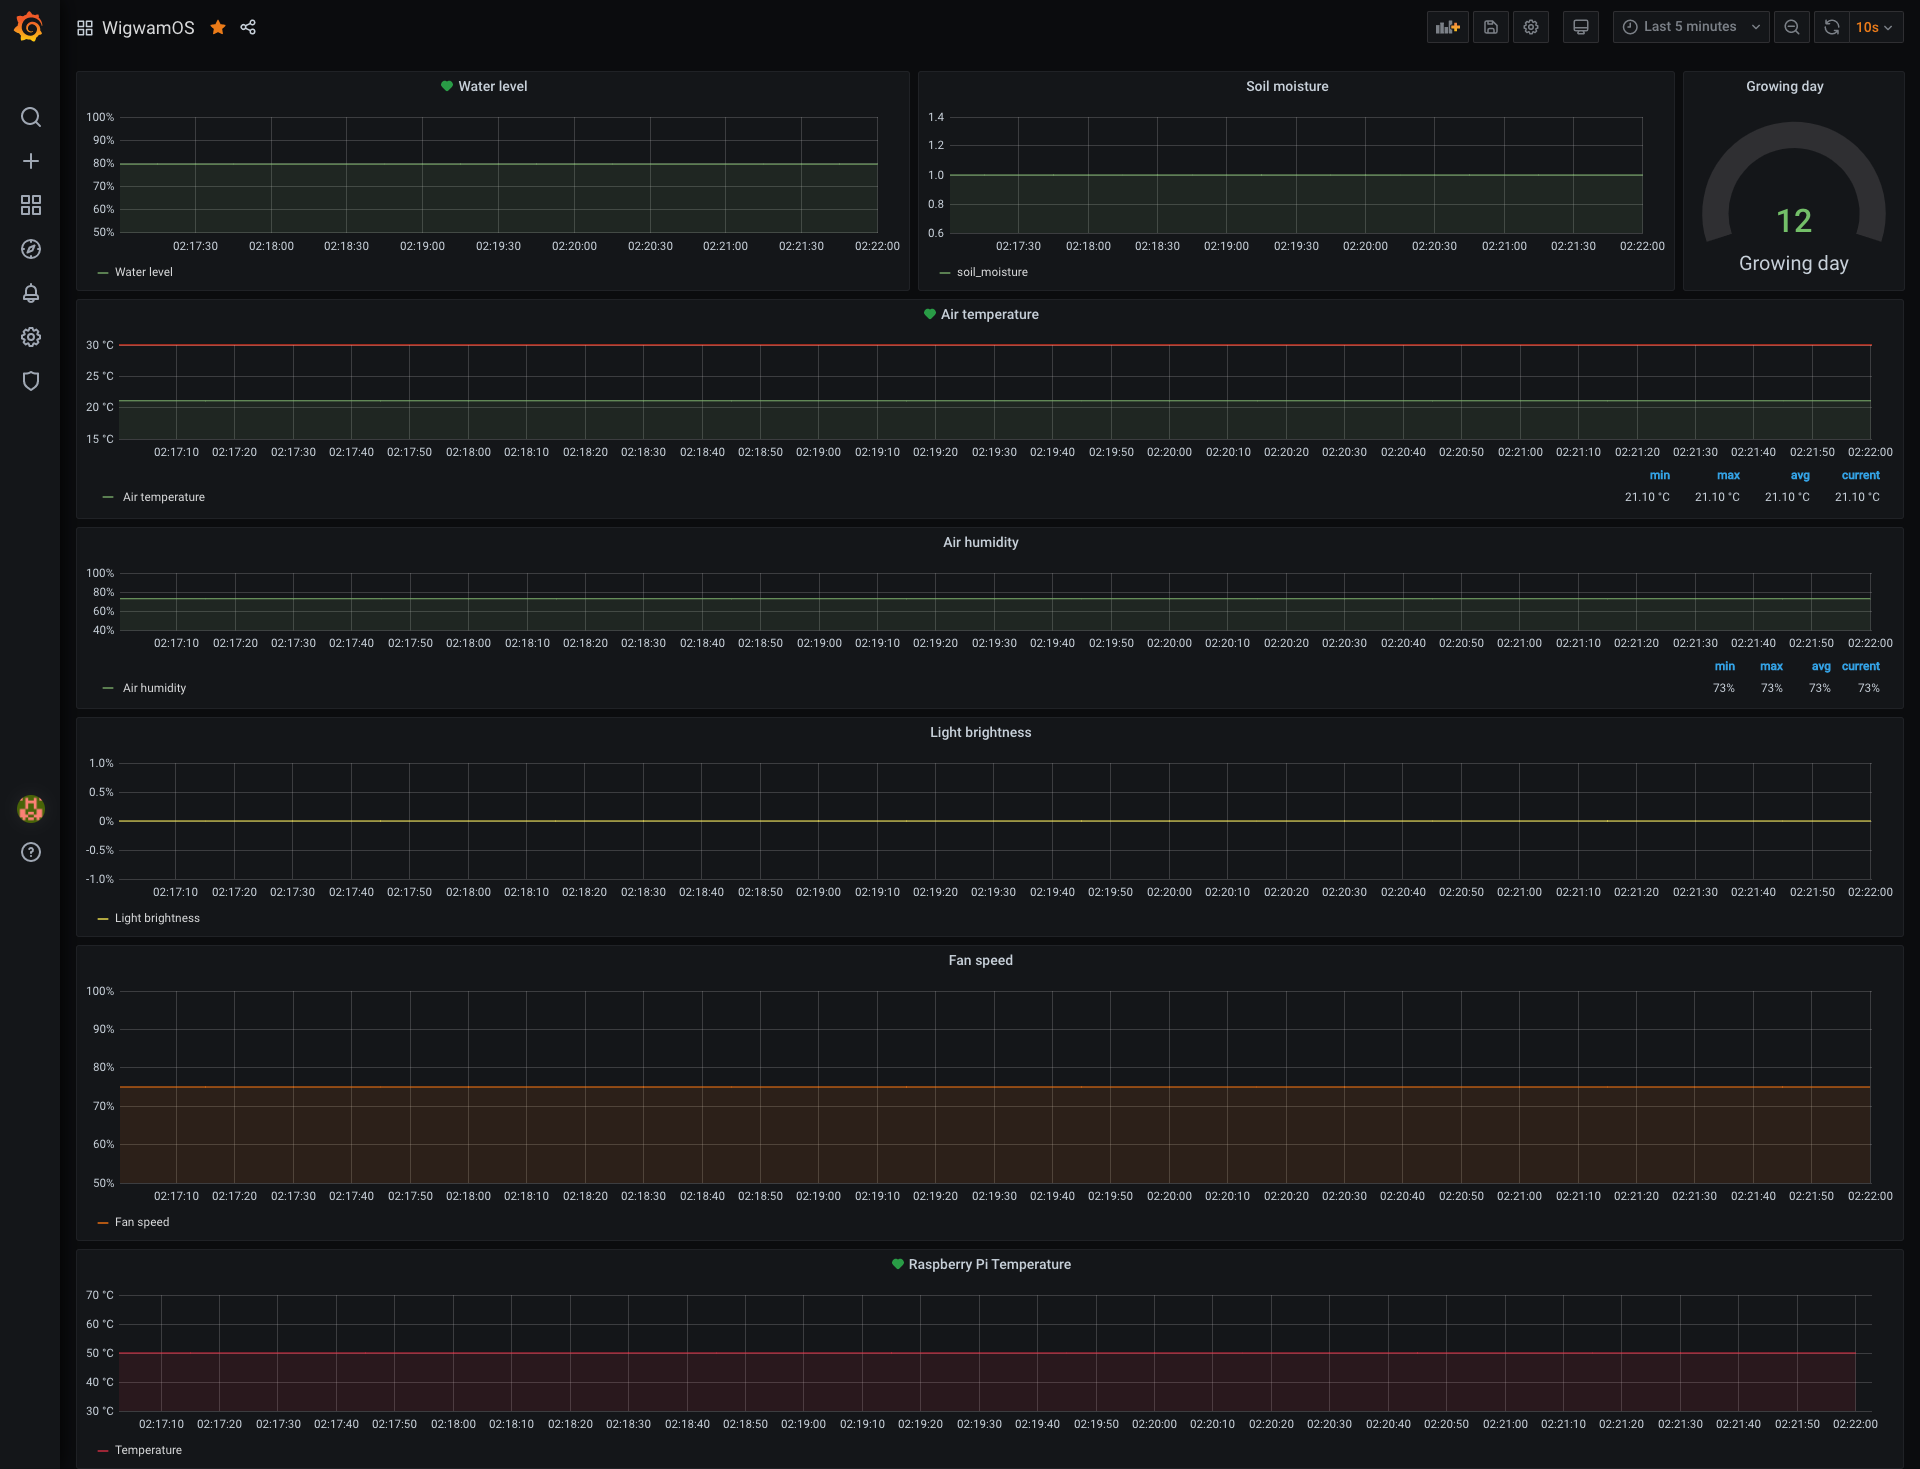
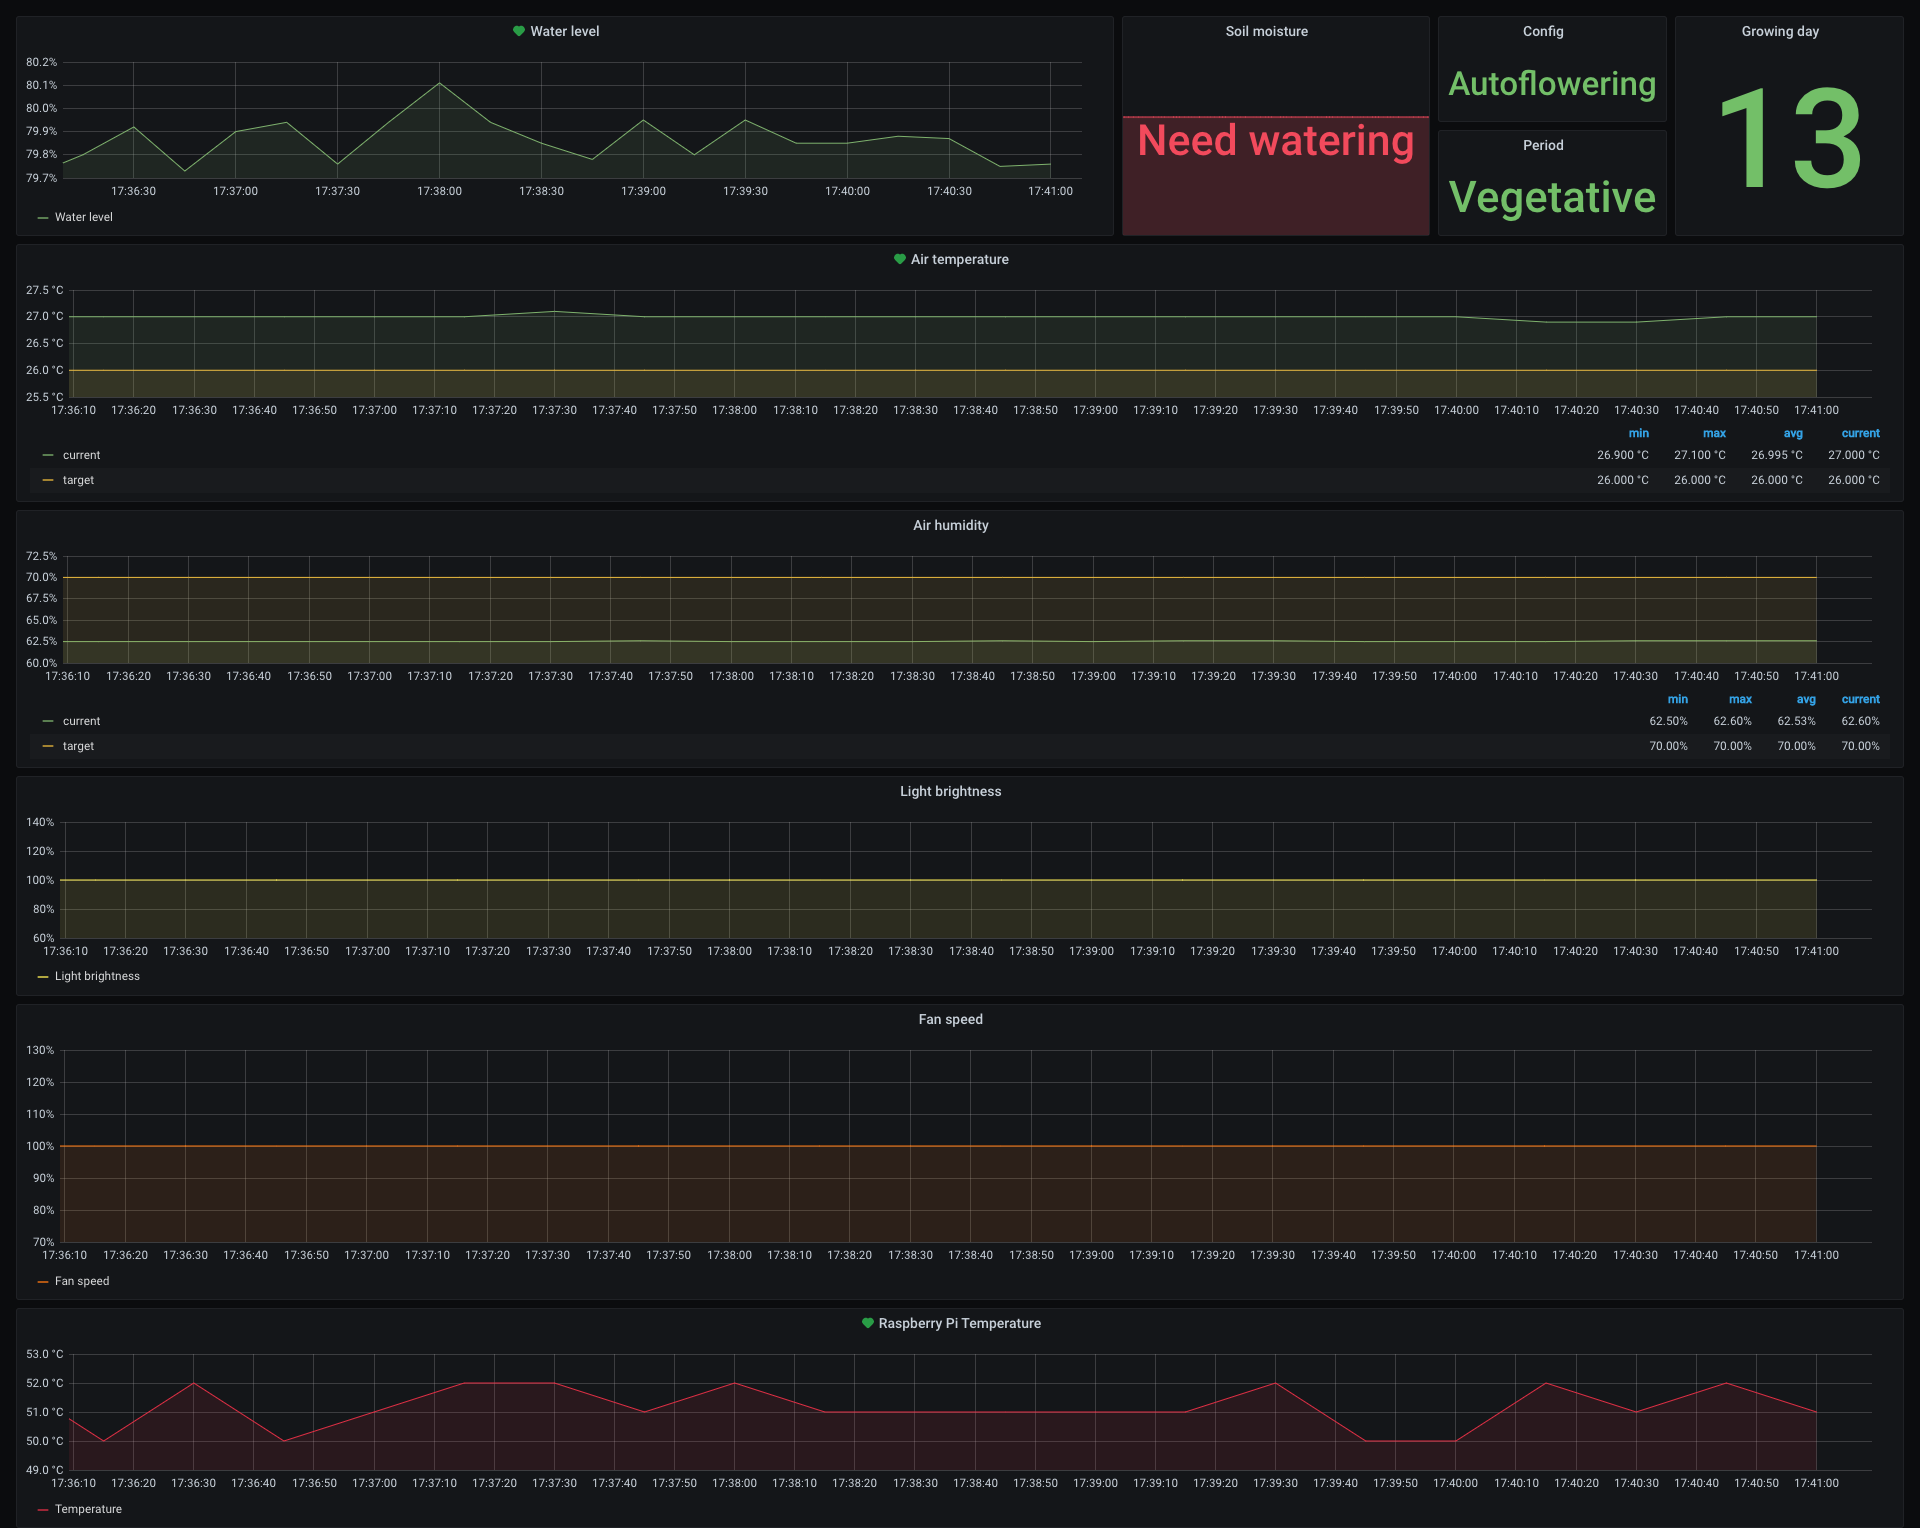
update metrics & grafana dashboard

diff --git a/run.py b/run.py
@@ -16,13 +16,13 @@ from lib.watering import Watering
 from lib.async_helper import run_async
 from settings import EXPORTER_UPDATE_INTERVAL, EXPORTER_SERVER_PORT, LOG_LEVEL, LIGHT_CONTROL_INTERVAL, \
     FAN_CONTROL_INTERVAL, RUN_INTERVAL, SOIL_MOISTURE_CONTROL_INTERVAL, HUMIDIFY_CONTROL_INTERVAL
-from prometheus_client import start_http_server, Gauge
+from prometheus_client import start_http_server, Gauge, Info
 
 # Prometheus metrics
+GROW_INFO = Info('growing', 'Grow info')
 AIR_TEMPERATURE = Gauge('air_temperature', 'Air temperature')
 AIR_HUMIDITY = Gauge('air_humidity', 'Air humidity')
 SOIL_MOISTURE = Gauge('soil_moisture', 'Soil moisture')
-GROW_DAYS = Gauge('grow_days', 'Grow days')
 WATER_LEVEL = Gauge('water_level', 'Water level')
 PI_TEMPERATURE = Gauge('pi_temperature', 'Raspberry PI CPU temperature')
 LIGHT_BRIGHTNESS = Gauge('light_brightness', 'Light brightness')
@@ -77,7 +77,11 @@ def update_metrics():
     AIR_HUMIDITY.set(humidity)
     AIR_TEMPERATURE.set(temperature)
     SOIL_MOISTURE.set(soil_moisture)
-    GROW_DAYS.set(grow_days)
+    GROW_INFO.info({
+        'day': str(grow_days),
+        'config': period.config.name,
+        'period': period.name,
+    })
     WATER_LEVEL.set(water_level)
     PI_TEMPERATURE.set(pi_temperature)
     LIGHT_BRIGHTNESS.set(light_brightness)
@@ -131,7 +135,7 @@ if __name__ == '__main__':
     logging.basicConfig(format='%(asctime)s %(message)s', level=LOG_LEVEL)
 
     logging.info('Waiting 30 sec before start for loading Triac HAT module...')
-    time.sleep(30)
+    # time.sleep(30)
     logging.info('Starting...')
 
     prop = Property()
